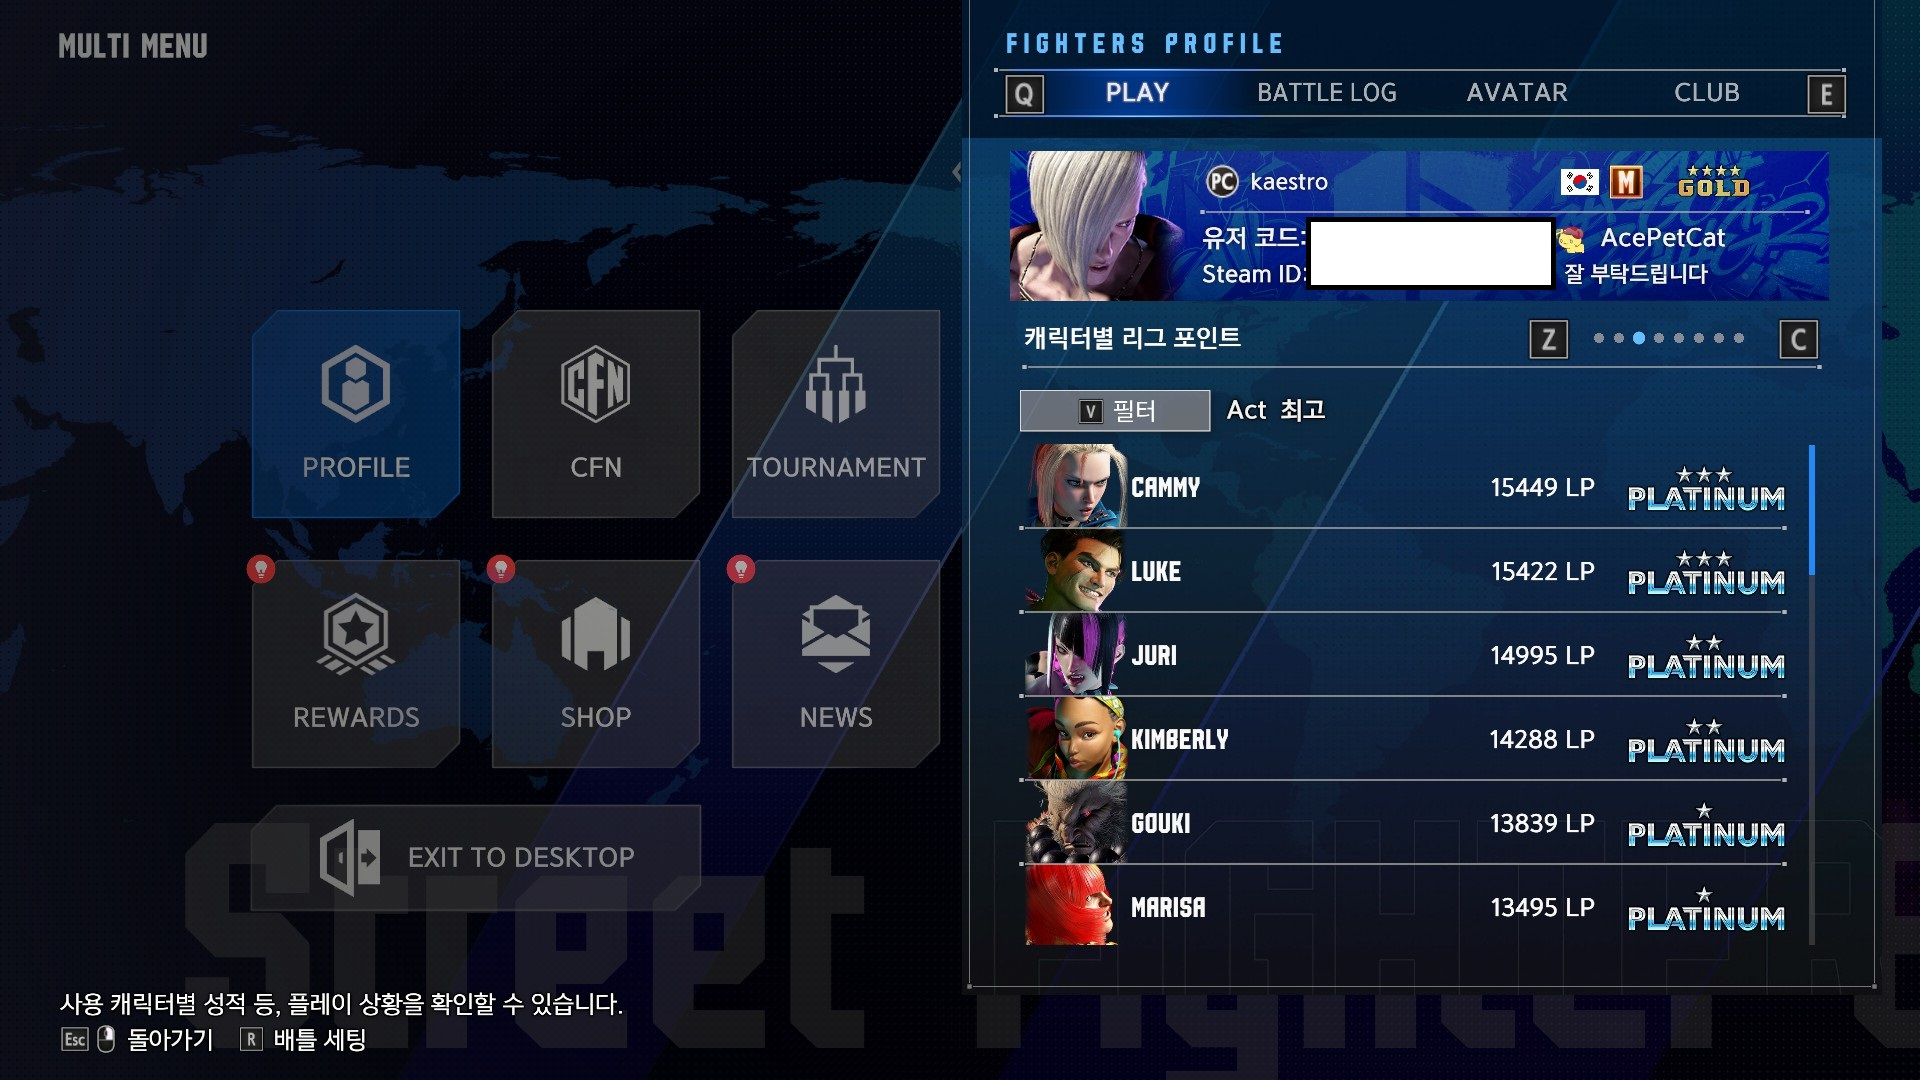
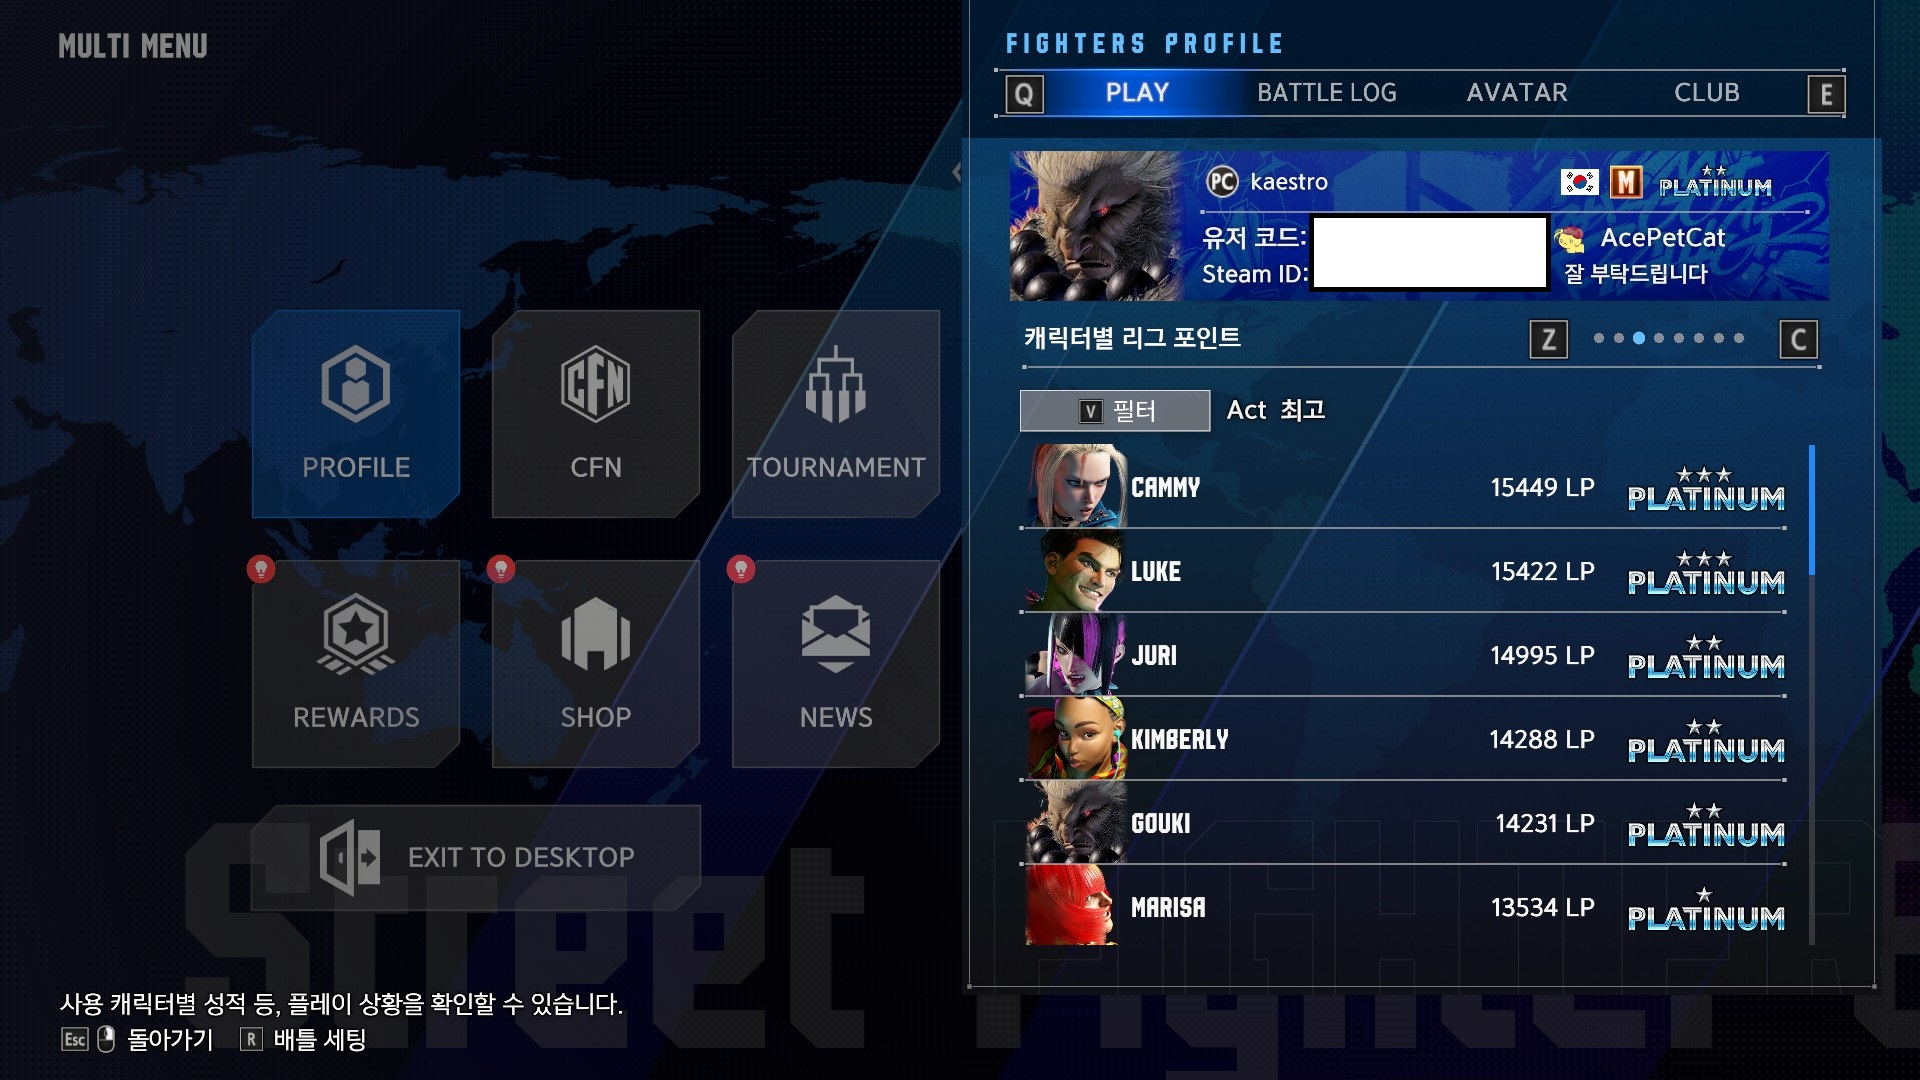
셋업 연습, 하지 마세요 탈고

diff --git a/docs/_posts/취미/게임 이야기/2024-05-31-셋업 연습, 하지 마세요.md b/docs/_posts/취미/게임 이야기/2024-05-31-셋업 연습, 하지 마세요.md
@@ -1,8 +1,8 @@
 ---
 layout: 산문
 classes: wide
-title: "셋업 연습, 하지 마세요 - 격투 게임의 잘못된 문화"
-subtitle: "비 격겜유저의 격투게임 이야기(작성중)"
+title: "셋업 연습, 하지 마세요 - 스파로 격투게임을 입문하며"
+subtitle: "비 격겜유저의 격투게임 이야기"
 date: 2024-05-31
 categories: "게임이야기"
 ---
@@ -12,8 +12,8 @@ categories: "게임이야기"
 - [격투게임은 쉽고 접근성 좋은 게임입니다](#격투게임은-쉽고-접근성-좋은-게임입니다)
 - [저자 소개](#저자-소개)
 - [셋업 연습이란 - 게임이 쉬워서 생긴 딜레마](#셋업-연습이란---게임이-쉬워서-생긴-딜레마)
+- [셋업은 왜 필요하고 스파6에서는 초보에게 필요 없는가](#셋업은-왜-필요하고-스파6에서는-초보에게-필요-없는가)
 - [셋업 연습으로 모든 것을 준비하고 게임을 시작하는 것은 잘못된 방법입니다](#셋업-연습으로-모든-것을-준비하고-게임을-시작하는-것은-잘못된-방법입니다)
-- [모두가 마스터가 될 수 없고, 그렇게 되어서도 안 됩니다](#모두가-마스터가-될-수-없고-그렇게-되어서도-안-됩니다)
 - [셋업 연습이 아니라, 게임 플레이를 통해 상황을 익히세요](#셋업-연습이-아니라-게임-플레이를-통해-상황을-익히세요)
 - [마무리](#마무리)
 - [참고자료](#참고자료)
@@ -28,7 +28,8 @@ categories: "게임이야기"
 쉽고, 게임을 플레이하는 것도 쉽습니다. 게임의 규칙을 이해하고, 플레이하는 것이 쉽기 때문에 격투 게임은 누구나
 쉽게 즐길 수 있는 쉽고 접근성 좋은 게임이라 생각합니다.
 
-그리고 어느 순간부터 격투 게임은 모든 장르의 게임들 중에서 가장 접근성이 나쁜 게임이라는 잘못된 인식이 생겼습니다.
+그리고 어느 순간부터 격투 게임은 모든 장르의 게임들 중에서 가장 접근성이 나쁜 게임 중 하나라는 잘못된 인식이
+생겼습니다.
 
 ---
 
@@ -38,10 +39,11 @@ categories: "게임이야기"
 즐겨본 게 전부인 사람입니다. 하지만 작년에 스트리트 파이터 6를 접하고 이를 너무 재미있게 즐기다 보니 다음과
 같은 랭크들에 도달할 수 있게 됐습니다.
 
-![현재 내 랭크](/images/셋업/내%20계정%20소개.jpg)
+![현재 내 랭크(1)](/images/셋업/내%20계정%20소개.jpg)
+![현재 내 랭크(2)](/images/셋업/내%20계정%20소개(1).jpg)
 
 스트리트 파이터를 안 하시는 분들을 위해 조금 더 설명하자면 현재 제 계정은 주로 플레 1 ~ 플레 3 사이의 랭크를
-유지하고 있는데, 이는 롤에서 골드 4 ~ 플레 4 정도의 랭크에 해당한다고 생각하시면 됩니다.
+유지하고 있는데 이는 상위 42% ~ 29% 정도로, 롤에서 골드 4 ~ 플레 4 정도의 랭크에 해당한다고 생각하시면 됩니다.
 
 ![sf6 rank distribution](/images/셋업/rank%20distribution%20march.webp)
 
@@ -72,22 +74,57 @@ categories: "게임이야기"
 
 ---
 
-## 셋업 연습으로 모든 것을 준비하고 게임을 시작하는 것은 잘못된 방법입니다
+## 셋업은 왜 필요하고 스파6에서는 초보에게 필요 없는가
+
+셋업이란 태권도에서 배우는 일종의 초식이라 할 수 있습니다. 특정 상황이 주어졌을 때 어떤 행동을 취할 것인지에
+대한 연습을 통해 상대방의 행동에 대한 대응을 미리 연습해두는 것입니다. 이는 격투 게임에서 상대방의 행동을
+예측했을 때 그에 대한 대응을 미리 연습해두는 것과 같습니다. 그리고 스파6의 모던 컨트롤은 이러한 셋업 연습을
+어느 정도 하지 않아도 될 새로운 컨트롤을 제공하고 있습니다. 그것이 바로 '어시스트 콤보'입니다.
+
+어시스트 콤보는 모든 캐릭터들마다 투버튼을 연속해서 누르기만 하면 콤보가 나가기 때문에 격투 게임의 커맨드 입력
+방식과는 달리 다른 액션 게임들처럼 연타만으로도 콤보를 쉽게 낼 수 있습니다. 그렇기 때문에 유저는 각각의 상황에
+대한 셋업을 연습하지 않고 세 가지 경우에 대해 어시스트 콤보를 통한 셋업을 사용할 수 있습니다.
 
 ---
 
-## 모두가 마스터가 될 수 없고, 그렇게 되어서도 안 됩니다
+## 셋업 연습으로 모든 것을 준비하고 게임을 시작하는 것은 잘못된 방법입니다
+
+셋업 연습은 격투 게임을 플레이하는 데에 있어서 중요한 요소 중 하나입니다. 하지만 셋업 연습을 통해 모든 상황에
+대한 대응을 연습하고 게임을 시작하는 것은 잘못된 방법입니다. 격투 게임은 게임 내의 상황이 빠르게 변화하며, 그
+상황에 대한 대응을 빠르게 결정해야 하는 게임입니다. 그리고 이는 셋업 연습을 통해 모든 상황에 대한 대응을
+연습하고 게임을 시작하는 것이 불가능하다는 것을 의미합니다.
+
+그리고 동시에 만약 경험이 뒷받쳐주지 않은 상태에서 셋업 연습만이 이루어질 경우에, 그것을 적절하게 꺼내는 능력
+또한 부족할 수 있습니다. 즉, 셋업 연습을 통해 모든 상황에 대한 대응을 연습하고 게임을 시작하는 것은 기존의
+스파6에서는 '클래식'이라 불리는 컨트롤에서는 상황에 대한 숙지가 돼있지 않으면 콤보를 사용할 수 없어 필요했을 지
+모르지만, 모던 컨트롤에서는 어시스트 콤보를 통해 콤보를 쉽게 사용할 수 있기 때문에 셋업 연습을 통해 모든 상황에
+대한 대응을 연습하고 게임을 시작하는 것은 불필요합니다. 오히려 게임을 플레이하면서 상황에 대한 대응을 연습하는
+것이 더욱 효율적일 수 있습니다.
 
 ---
 
 ## 셋업 연습이 아니라, 게임 플레이를 통해 상황을 익히세요
 
+결국 셋업이란 특정 상황에서 어떻게 대응하는 것이 좋은지에 대해 누군가가 정리해 둔 해답이고 이를 외우는 것보다
+더 중요한 것은 상황에 대한 이해를 얻는 것입니다. 그리고 이는 게임을 플레이하면서 다양한 상황을 경험하고, 그
+상황에 대해 '모르면 맞아야죠'를 체험하는 것을 통해 얻을 수 있습니다.
+
+물론 그러다보면 한계에 부딪히는 시점이 오겠지만, 셋업 연습이란 그 때에 시작해도 늦지 않다고 생각합니다. 격투
+게임에서 한계를 경험하는 것은 내가 어떤 상황에 대한 대처가 미흡하다는 것을 의미하는 경우가 대부분이고, 이에 대해
+남들은 어떻게 처리하는지를 찾아보는 것을 통해 한계를 극복할 수 있기 때문입니다. 즉 셋업은 암기의 대상이라기보다는
+특정 상황들에 대한 대처를 연습하는 것이라고 생각합니다.
+
 ---
 
 ## 마무리
 
-게임을 꼭 필수적인 건 외우고 나서 하려고 부담 갖지 말고 우선 게임을 즐기세요, 게임에 부담감을 가져선 안 됩니다.
- 게임은 즐기려고 있는 물건입니다. 그리고 격투게임은 초보자라도 충분히 즐기면서 시작하고 배울 수 있다고 생각합니다
+게임을 꼭 필수적인 건 외우고 나서 하려고 부담 갖지 말고 우선 게임을 즐기는 것이 가장 중요하다고 생각합니다.
+게임은 즐기려고 있는 물건이니까요! 그리고 격투게임은, 정확하게 스트리트 파이터 6는 초보자도 충분히 즐기면서
+시작하고 배울 수 있다고 생각합니다. 이번에 고우키가 나와 스파6에 관심이 생겼지만 격투 게임을 시작하는 것에
+부담을 느끼는 분들이 있다면, 공부하려는 마음이 아니라 가볍게 오락실에서 게임을 즐기던 그 때의 마음으로 한 번
+시작해보셨으면 좋겠습니다.
+
+읽어주셔서 감사합니다.
 
 ---
 

diff --git a/docs/_posts/개발/개발이야기/2024-05-31-useEffect, useState, children.md b/docs/_posts/개발/개발이야기/2024-05-31-useEffect, useState, children.md
@@ -1,0 +1,106 @@
+---
+layout: 산문
+classes: wide
+title: "children, useEffect, useState in React"
+subtitle: "react에서 데이터를 다루는 방법"
+date: 2024-05-31
+categories: 개발이야기
+---
+
+## Next.js에서 페이지, 레이아웃, 템플릿
+
+모든 어플리케이션의 기본적인 뼈대는 라우팅을 통해 구성됩니다. Next.js에서는 페이지, 레이아웃,
+템플릿을 통해 라우팅에 따라 UI를 다르게 구성할 수 있습니다. 이번 포스트에서는 어떤 경우에,
+어떤 방식으로 이런 특별한 파일들을 사용하는지 알아보겠습니다.
+
+---
+
+## Pages
+
+페이지는 라우트에 따라 유일하게 대응하는 UI를 나타냅니다. 페이지는 page.js 파일에서 컴포넌트를
+기본 내보내기(default export)함으로써 정의할 수 있습니다.
+
+예를 들어, 인덱스 페이지를 만들려면 app 디렉토리 안에 page.tsx 파일을 추가합니다:
+
+```tsx
+// `app/page.tsx`는 `/` URL의 UI를 정의합니다
+export default function Page() {
+  return <h1>Hello, Home page!</h1>;
+}
+```
+
+그런 다음, 새로운 페이지를 만들고 싶다면, 새로운 폴더를 만들고 그 안에 page.tsx 파일을
+추가합니다. 예를 들어, /dashboard 라우트에 대한 페이지를 만들려면, dashboard라는 새
+폴더를 만들고 그 안에 page.tsx 파일을 추가합니다:
+
+```tsx
+// `app/dashboard/page.tsx`는 `/dashboard` URL의 UI를 정의합니다
+export default function Page() {
+  return <h1>Hello, Dashboard Page!</h1>;
+}
+```
+
+## Layouts
+
+레이아웃은 여러 페이지에서 공통으로 사용하는 UI 요소를 정의하는 데 사용됩니다. Next.js에서
+layout은 state를 보존하고, 상호 작용한 상태로 유지되어 다시 렌더링되지 않습니다. Layout은
+또한 nested될 수 있습니다.
+
+next.js에서 layout은 react에서 layout.js 컴포넌트를 default export함으로써 정의할 수
+있습니다. 예를 들어, 다음과 같은 layout.js를 정의할 경우, layout은 /dashboard 페이지와
+동시에 /dashboard/settings 페이지에서 공통으로 사용됩니다.
+
+```plaintext
+app
+├── dashboard
+│   ├── page.tsx
+│   ├── layout.tsx
+│   └── settings
+│       └── page.tsx
+│       └── layout.tsx
+```
+
+```tsx
+// `app/dashboard/layout.tsx`는 `/dashboard`와 `/dashboard/settings` URL의 공통 UI를 정의합니다
+export default function Layout({ children }) {
+  return (
+    <div>
+      <nav>Dashboard Navigation</nav>
+      <main>{children}</main>
+    </div>
+  );
+}
+```
+
+이 때 layout의 종류에는 최상위에 존재하는 Root Layout과, 하위 children에 적용되는 Nested Layout이 있습니다.
+최 상위 root Layout만이 <html\>과 \<body\> 태그를 포함할 수 있습니다.
+
+```plaintext
+app
+├── layout.tsx
+├── dashboard
+│   ├── layout.tsx
+│   └── settings
+│       └── layout.tsx
+```
+
+---
+
+## Templates
+
+템플릿은 layout과 children을 감싼다는 측면에서 layout과 비슷하지만, 템플릿은 children을
+탐색 시에 새로운 instance를 생성하는 점이 다릅니다.
+
+템플릿은 레이아웃과 달리 다음과 같은 특정한 경우에 선호됩니다.
+
+- useEffect나 useState와 같은 특징에 의존하는 경우
+- 기본적인 프레임워크의 기능을 변경해야하는 경우
+
+
+이렇게 Next.js에서는 페이지, 레이아웃, 템플릿을 통해 다양한 방식으로 UI를 구성할 수 있습니다. 이를 통해 어플리케이션의 구조를 체계적으로 관리하고, 재사용 가능한 컴포넌트를 효율적으로 활용할 수 있습니다.
+
+---
+
+## 참고자료
+
+- [Next.JS 공식 문서 - Pages and Layouts](https://nextjs.org/docs/app/building-your-application/routing/pages-and-layouts)
